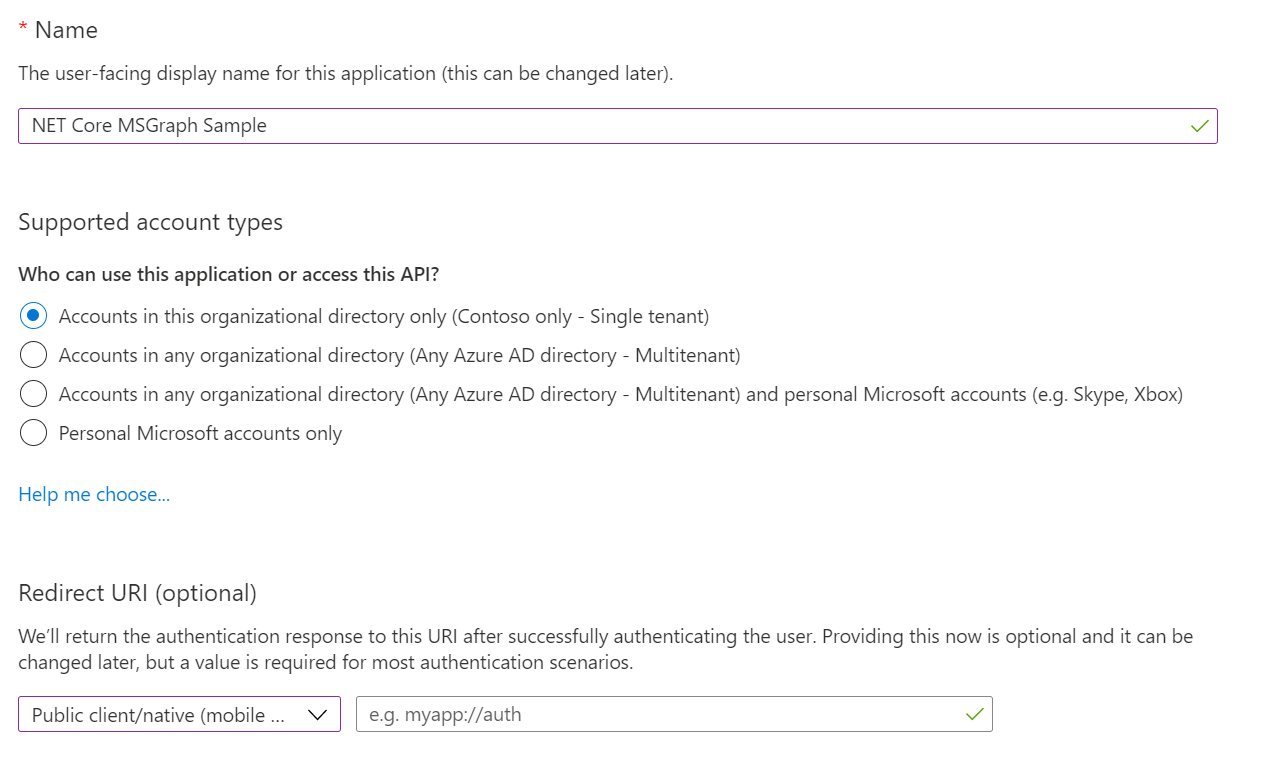
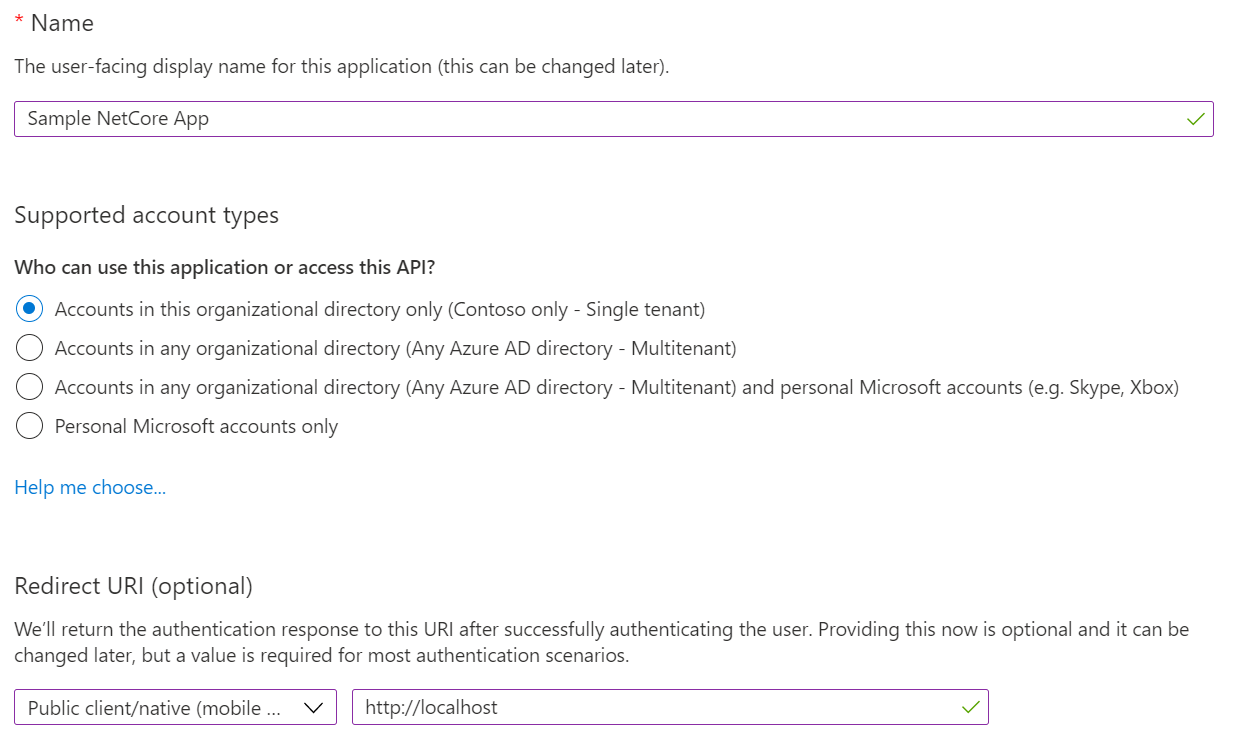
updated readme

diff --git a/README.md b/README.md
@@ -22,36 +22,39 @@ zipUrl: https://github.com/microsoftgraph/dotnet-aad-query-sample/archive/master
 
 # Advanced Query Capabilities for Directory Objects with .NET SDK
 
-This is a sample .NET Core application using the [Microsoft Graph SDK](https://github.com/microsoftgraph/msgraph-sdk-dotnet) to query AAD.## Getting started
+This is a sample .NET Core application using the [Microsoft Graph SDK](https://github.com/microsoftgraph/msgraph-sdk-dotnet) to query AAD.
 
 ## Getting Started
 
-### Register your application
+### 1. Register your application
 
-1. Register your application to use Microsoft Graph API using the [Microsoft Application Registration Portal](https://aka.ms/appregistrations).
+Use the [Microsoft Application Registration Portal](https://aka.ms/appregistrations) to register your application with the Microsoft Graph APIs.
 ![Application Registration](docs/register_app.png)
-2. Set the right authentication for .NET Core apps (adding `http://localhost` redirect URI).
-![Platform Configuration](docs/platform_config.png)
-3. Set the permissions for `User.Read.All` and `Directory.Read.All`.
+**Note:** Make sure to set the right Redirect URI for .NET Core apps: `http://localhost`.
+
+### 2. Set the Permissions
+
+Add the delegated permissions for `User.Read.All` and `Directory.Read.All`.
 ![Api Permissions](docs/api_permissions.png)
 
-### Configure the App Secret using the Secret Manager
+### 3. Configure the App Secret using the Secret Manager
 
-This application use the [.NET Core Secret Manager](https://docs.microsoft.com/en-us/aspnet/core/security/app-secrets?view=aspnetcore-3.1&tabs=windows) to store the ClientId.
+This application use the [.NET Core Secret Manager](https://docs.microsoft.com/aspnet/core/security/app-secrets?view=aspnetcore-3.1&tabs=windows) to store the ClientId.
 To add the ClientId created on step 1:
 
 1. Open the Developer Command Prompt under `dotnet-aad-query-sample\MSGraphSamples.WPF\` directory
 2. type `dotnet user-secrets set "clientId" "<YOUR CLIENT ID>"`
 
-### Build & Run
+## Build & Run
 
-If everything was configured correctly, you should be able to run the application, and see the first login prompt.
+If everything was configured correctly, you should be able to run the application, and see the first login prompt.  
 The auth token will be cached for the subsequent runs.
 
 ### Using the app
 
-You can query your tenant using the standard OData `$filter`, `$search`, `$orderBy`, `$select` clauses.
+You can query your tenant using the standard OData `$filter`, `$search`, `$orderBy`, `$select` clauses in the relative textboxes.
 ![Screenshot of the App](docs/app1.png)
+
 If you double click on a row, a default drill-down will happen (for example by showing the list of transitive groups a user is part of).  
 If you click on a header, the results will be sorted by that column. **Note: not all columns are supported**.  
 If any query error happen, it will displayed with a MessageBox.  
